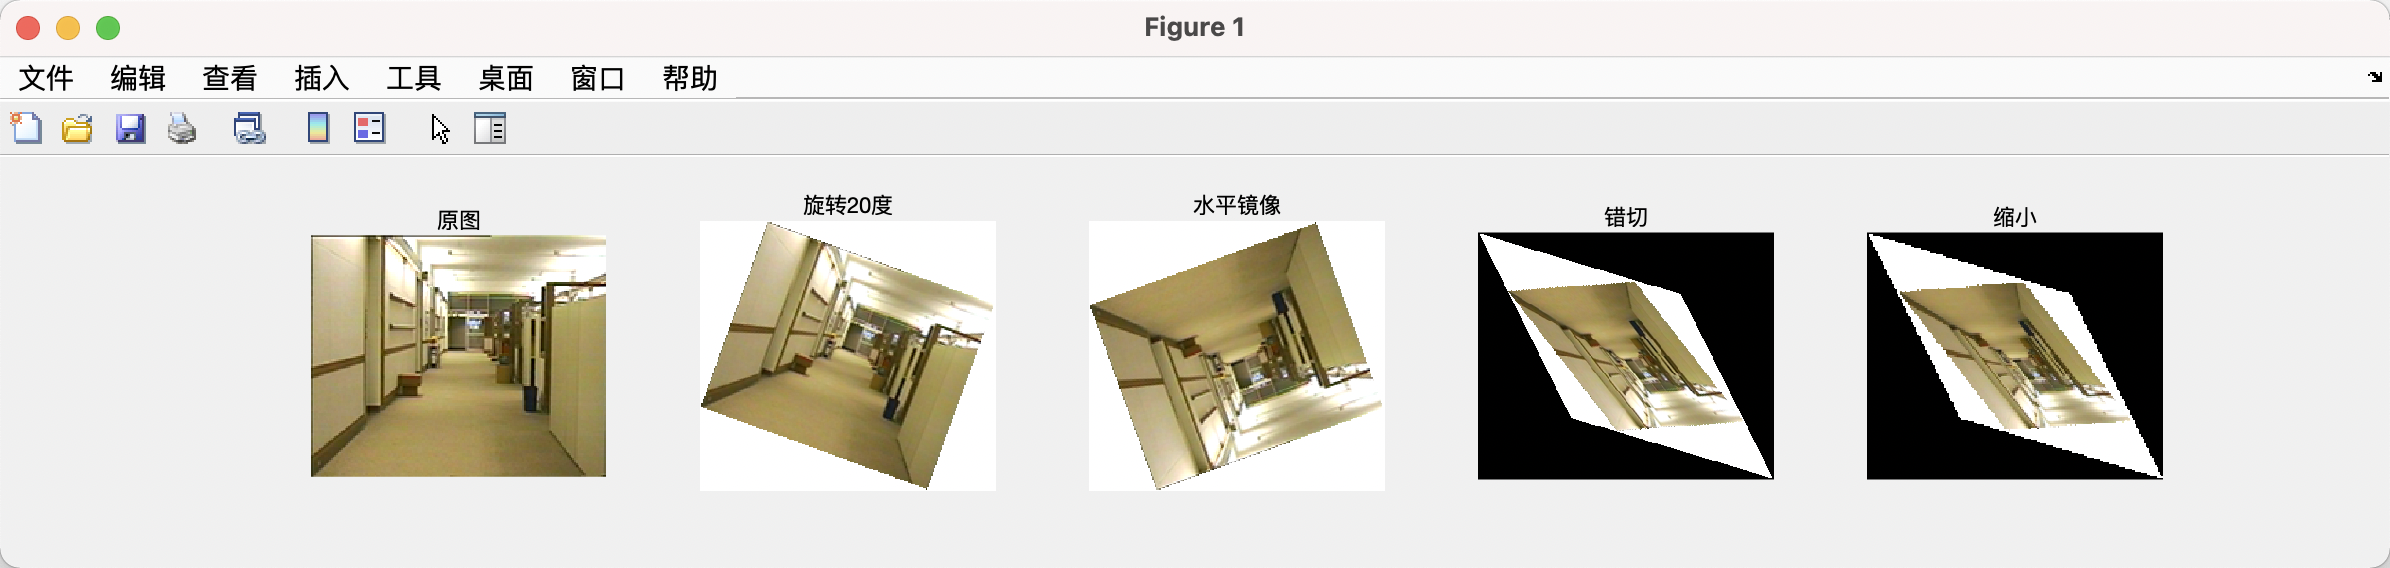
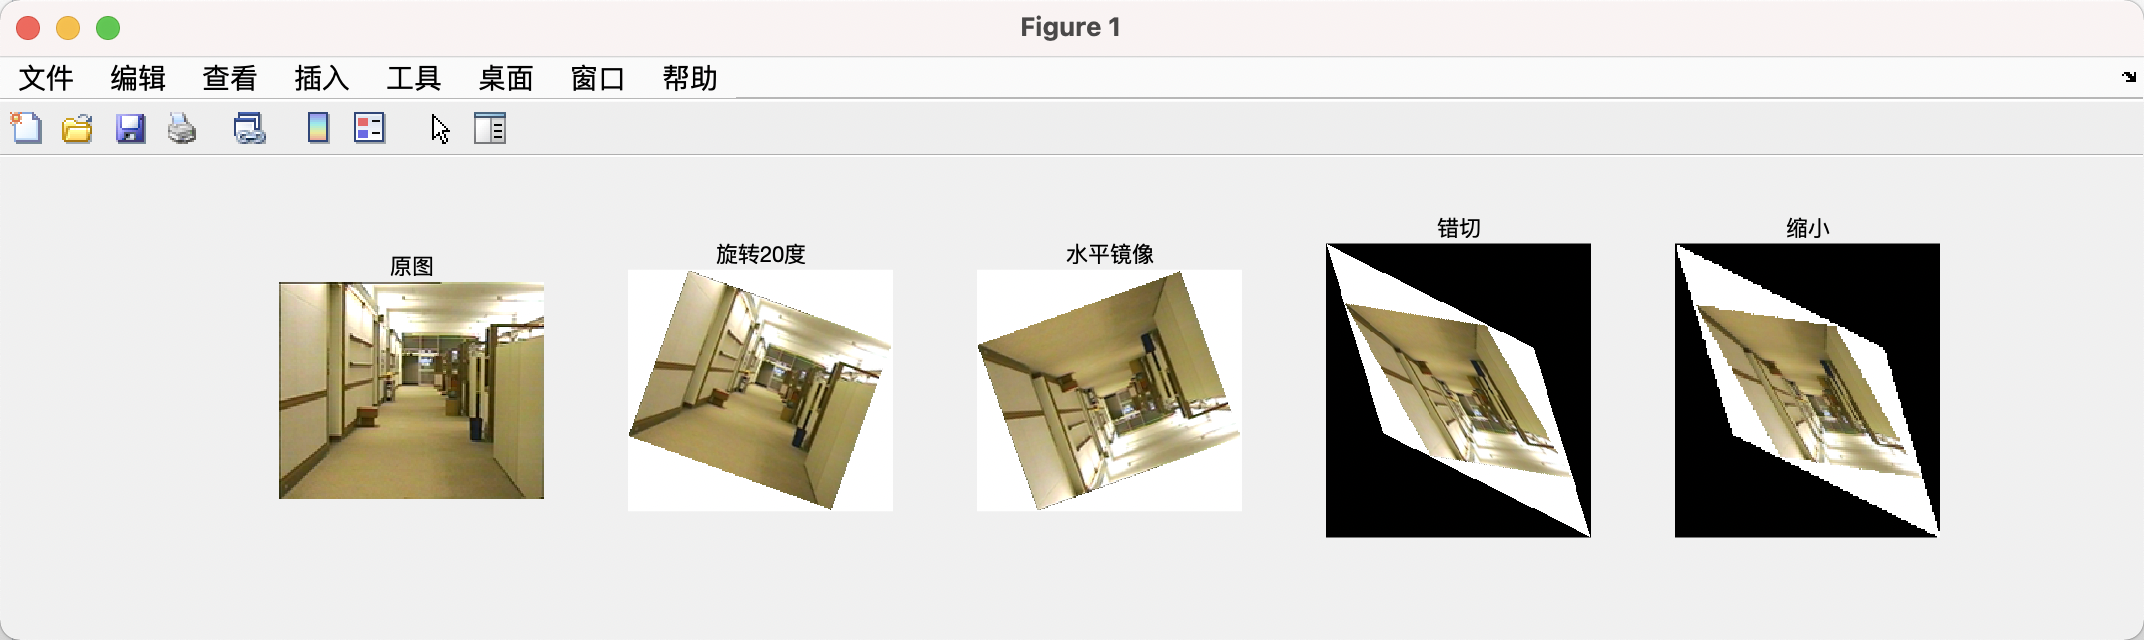
Corrected the stagger transform: Remember that MATLAB will transpose the matrix!!!!

diff --git a/assignment1/comprehensive.m b/assignment1/comprehensive.m
@@ -49,7 +49,7 @@ subplot(153), imshow(horizontal_mirror), title('水平镜像');
 % staggered
 dx=0.3;
 dy=0.5;
-tform=affine2d([1,dx,0;dy,1,0;0,0,1]);
+tform=affine2d([1,dy,0;dx,1,0;0,0,1]);
 stagger=imwarp(horizontal_mirror,tform);
 subplot(154),imshow(stagger),title('错切');
 % zoom
